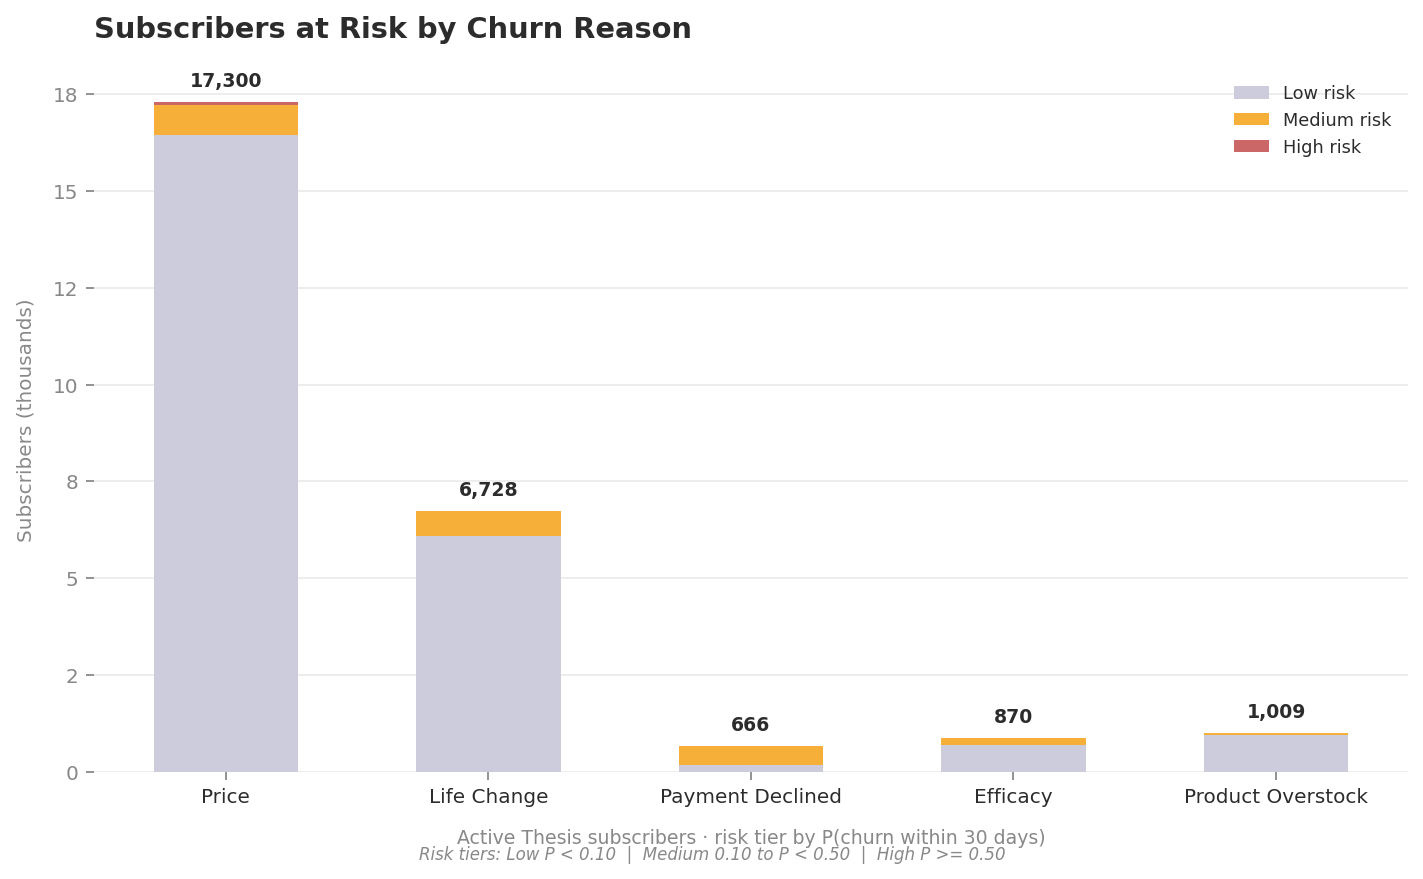
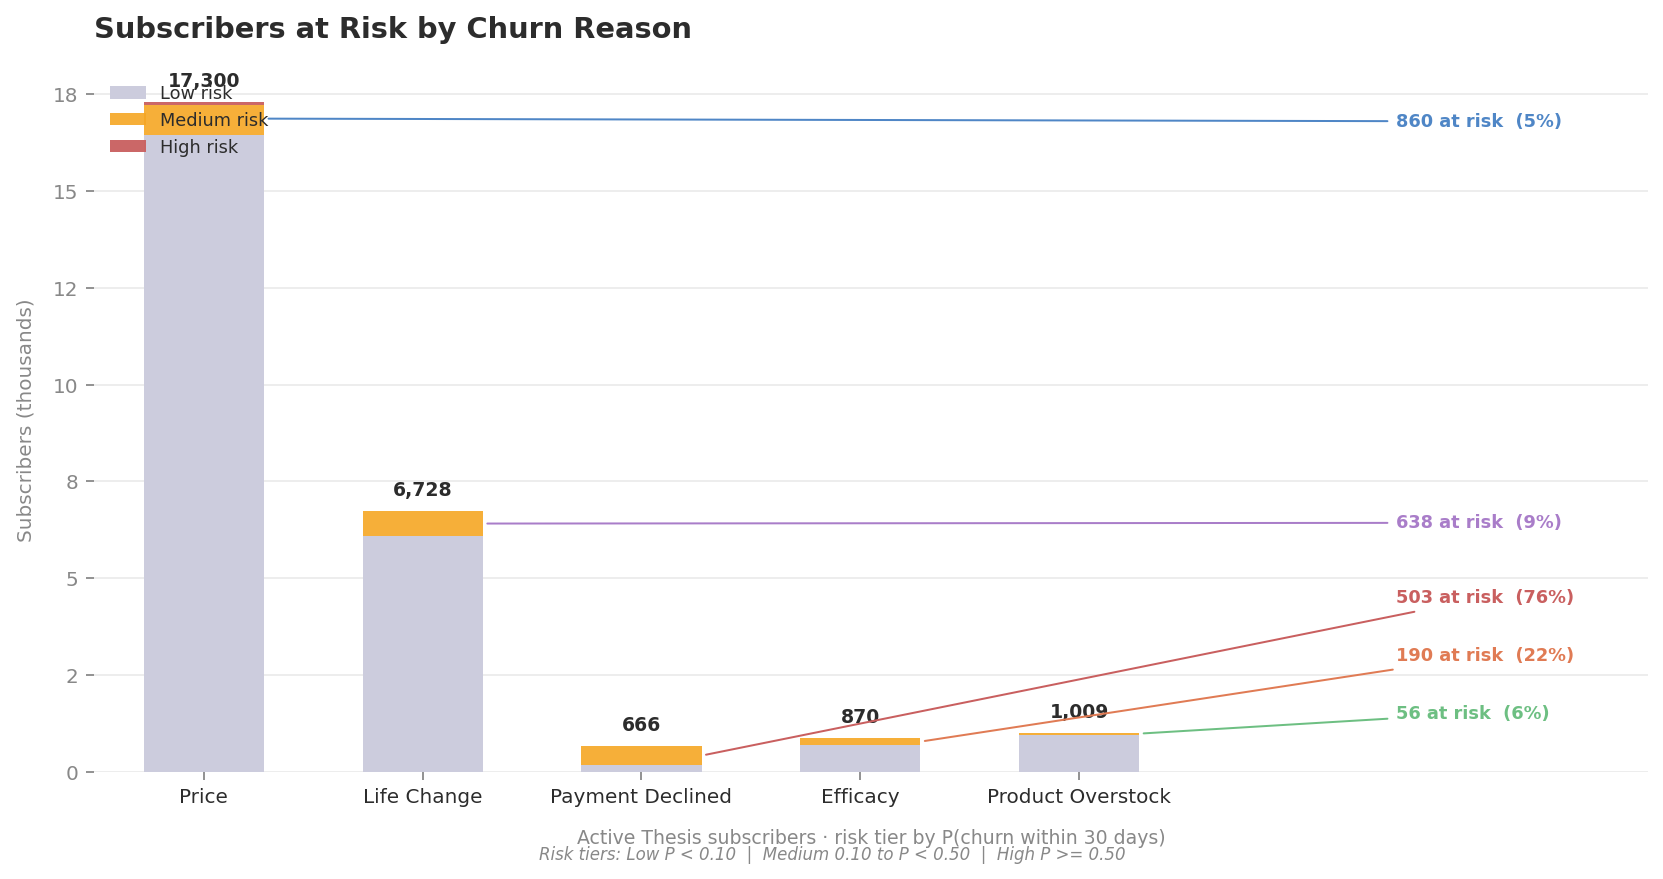
Chart 1: right-side callout labels showing at-risk count and % per archetype Chart 3: Efficacy label simplified to 'Efficacy 0%'
Callouts reveal Involuntary at 76% at-risk — most urgent segment,
invisible at scale on the main bars.

diff --git a/docs/make_charts.py b/docs/make_charts.py
@@ -81,7 +81,7 @@ C1_SUBTITLE  = "Active Thesis subscribers · risk tier by P(churn within 30 days
 C1_YLABEL    = "Subscribers (thousands)"
 C1_FOOTNOTE  = "Risk tiers: Low P < 0.10  |  Medium 0.10 to P < 0.50  |  High P >= 0.50"
 C1_OUT       = Path(__file__).parent / "chart_1_subscribers.png"
-C1_FIG_SIZE  = (9, 5.5)
+C1_FIG_SIZE  = (10.5, 5.5)   # wider to give callout labels room on the right
 BAR_W        = 0.55
 
 COLOR_LOW    = "#CCCCDD"
@@ -109,12 +109,43 @@ def chart_1():
         ax.text(x[i], tot + 0.3, f"{raw:,}", ha="center", va="bottom",
                 fontsize=8.5, color=TEXT, fontweight="600")
 
+    # Right-side callout labels pointing into the medium+high tier
+    # Shows count + % of that archetype actually at risk
+    x_label = len(ARCH_ORDER_BAR) - 0.1          # just past the last bar
+    ax.set_xlim(right=len(ARCH_ORDER_BAR) + 1.6)  # make room for labels
+
+    # Stagger text y-positions to avoid overlap; arrow points to mid of med+hi band
+    callout_positions = {
+        "price":       totals_k[ARCH_ORDER_BAR.index("price")] - 0.5,
+        "life_change": totals_k[ARCH_ORDER_BAR.index("life_change")] - 0.3,
+        "involuntary": 4.5,
+        "efficacy":    3.0,
+        "fatigue":     1.5,
+    }
+
+    for arch in ARCH_ORDER_BAR:
+        i       = ARCH_ORDER_BAR.index(arch)
+        med_hi  = summary[arch]["medium"] + summary[arch]["high"]
+        pct     = med_hi / summary[arch]["total"] * 100
+        mid_y   = (low_vals[i] + (med_vals[i] + hi_vals[i]) / 2)  # midpoint of risk band
+        text_y  = callout_positions[arch]
+        color   = ARCH_COLORS[arch]
+
+        ax.annotate(
+            f"{med_hi:,} at risk  ({pct:.0f}%)",
+            xy=(x[i] + BAR_W / 2, mid_y),
+            xytext=(x_label + 0.55, text_y),
+            fontsize=8, color=color, fontweight="600", va="center",
+            arrowprops=dict(arrowstyle="-", color=color, lw=0.9,
+                            connectionstyle="arc3,rad=0.0"),
+        )
+
     ax.set_xticks(x)
     ax.set_xticklabels([ARCH_LABELS[a] for a in ARCH_ORDER_BAR], color=TEXT, fontsize=9)
     ax.set_ylabel(C1_YLABEL, color=TEXT_MUTED, fontsize=9, labelpad=8)
     ax.yaxis.set_major_formatter(ticker.FuncFormatter(lambda v, _: f"{v:.0f}"))
 
-    ax.legend(fontsize=8, frameon=False, labelcolor=TEXT, loc="upper right")
+    ax.legend(fontsize=8, frameon=False, labelcolor=TEXT, loc="upper left")
 
     ax.set_title(C1_TITLE,    color=TEXT,       fontsize=13, fontweight="bold", pad=14, loc="left")
     ax.set_xlabel(C1_SUBTITLE, color=TEXT_MUTED, fontsize=8.5, labelpad=10)
@@ -237,7 +268,7 @@ def chart_3():
             peak_i = int(np.argmax(smoothed))
             ax.plot(dates[peak_i], smoothed[peak_i],
                     "o", color=color, markersize=7, zorder=5)
-            end_label = "  Efficacy (insignificant since 2023)  0%"
+            end_label = "  Efficacy  0%"
         else:
             end_label = f"  {ARCH_LABELS[arch]}  {final_val:.0f}%"
 
